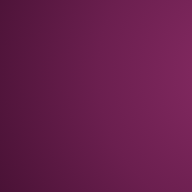
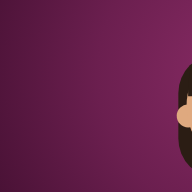
Nome do app «¿Y ahora qué, Betty?» e ícone com o rosto da Betty

Changed region(s): [[0.9062, 0.3125, 1.0, 0.875]]

diff --git a/index.html b/index.html
@@ -8,7 +8,7 @@
 <meta name="mobile-web-app-capable" content="yes">
 <meta name="apple-mobile-web-app-capable" content="yes">
 <meta name="apple-mobile-web-app-status-bar-style" content="black-translucent">
-<meta name="apple-mobile-web-app-title" content="Betty">
+<meta name="apple-mobile-web-app-title" content="¿Y ahora qué, Betty?">
 <link rel="manifest" href="manifest.webmanifest">
 <link rel="icon" type="image/png" sizes="192x192" href="icons/icon-192.png">
 <link rel="apple-touch-icon" href="icons/apple-touch-icon.png">

diff --git a/sw.js b/sw.js
@@ -1,5 +1,5 @@
 // Service worker: guarda el juego para que funcione sin conexión.
-const CACHE = "betty-v3";
+const CACHE = "betty-v4";
 const CORE = ["./", "./index.html", "./manifest.webmanifest",
   "./icons/icon-192.png", "./icons/icon-512.png", "./icons/icon-maskable-512.png", "./icons/apple-touch-icon.png"];
 
